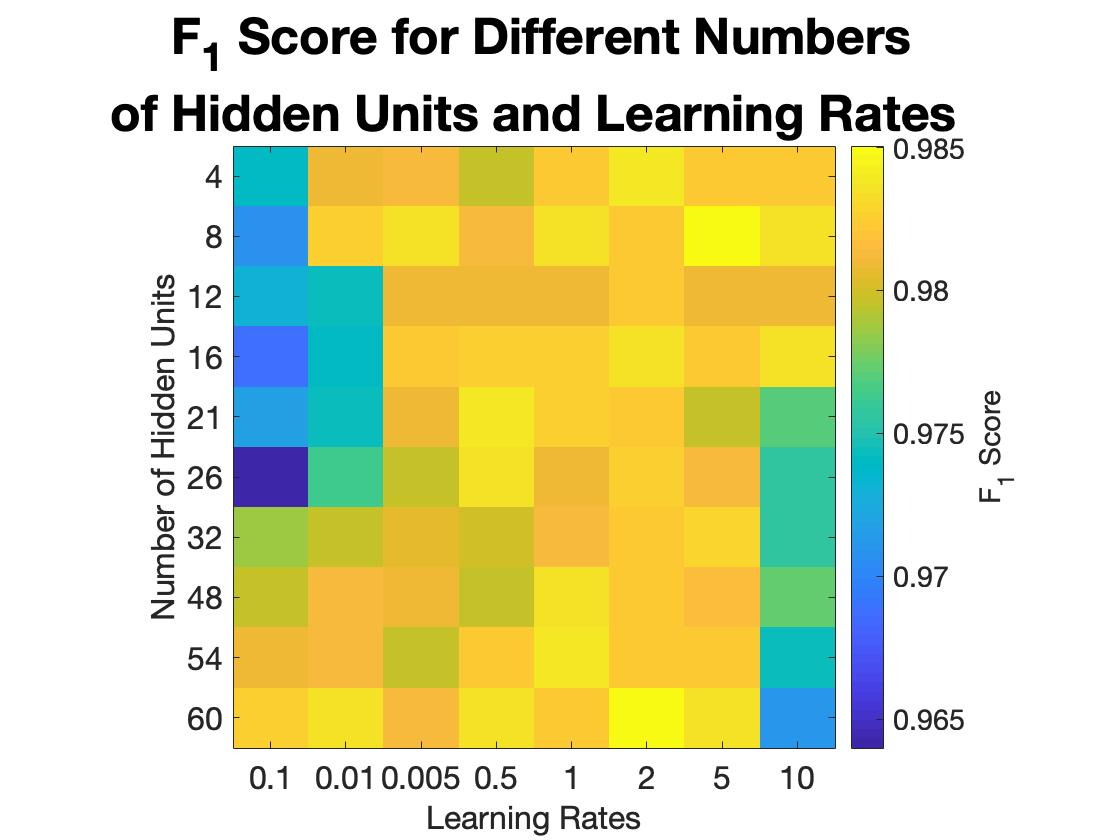
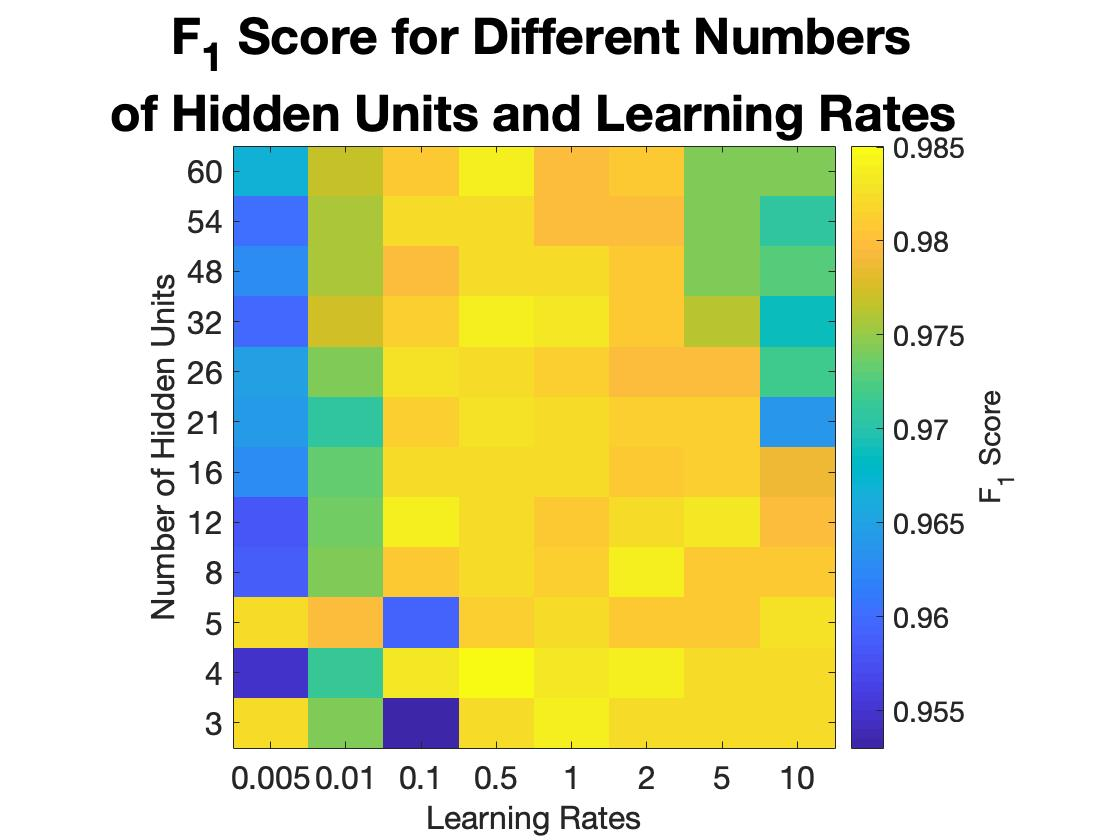
added one more hidden unit

diff --git a/ann.py b/ann.py
@@ -134,9 +134,10 @@ if __name__ == "__main__":
     # leave_one_out_cross_validation(X, y) # This calls leave one out CV, comment out all code below before running this!
 
     folds = 20 # num of folds we want to create    
-    learning_rate = [1, 2, 5, 10]
+    learning_rate = [0.1, 0.01, 0.005, 0.5, 1, 2, 5, 10]
+    hidden_units = [5]
     # learning_rate = [0.1, 0.01, 0.005, 0.5, 1, 2, 5, 10]
-    hidden_units = [4, 8, 12, 16, 21, 26, 32, 48, 54, 60]
+    # hidden_units = [4, 8, 12, 16, 21, 26, 32, 48, 54, 60]
     train_errs = np.zeros(len(learning_rate) * len(hidden_units))
     test_errs = np.zeros(len(learning_rate) * len(hidden_units))
     f1_scores = np.zeros(len(learning_rate) * len(hidden_units))
